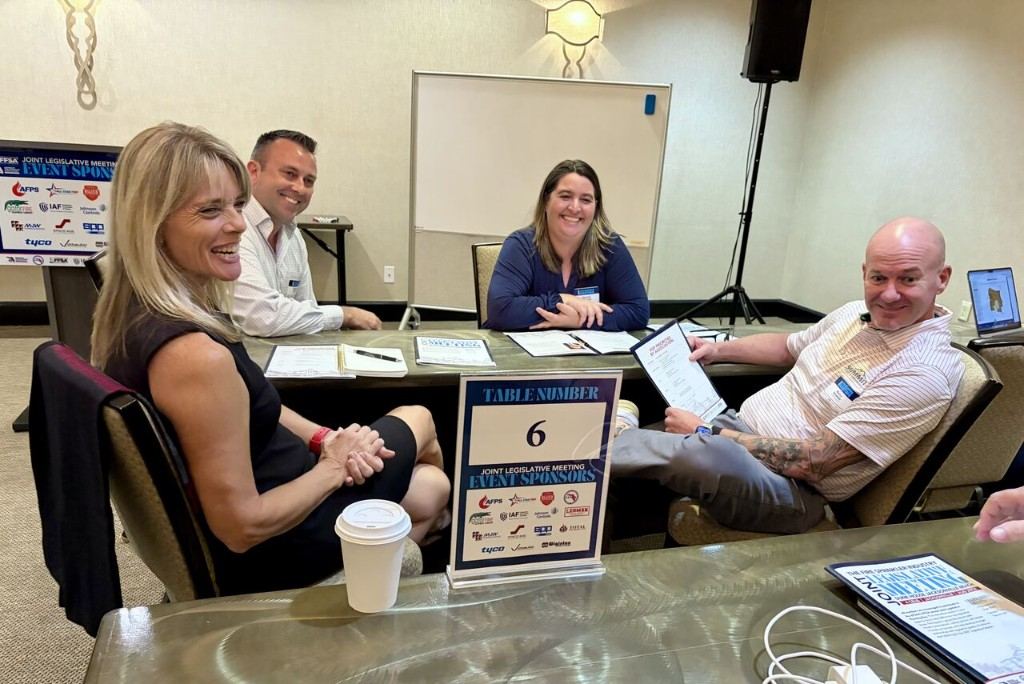
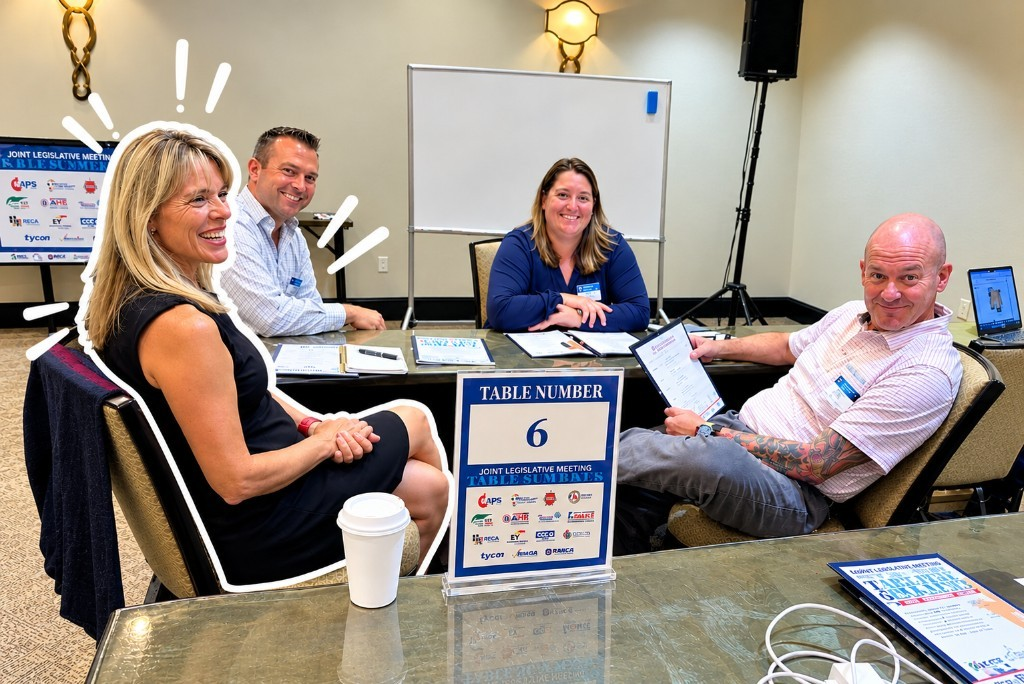
Use the marked meeting photo as the hero.
The homepage now shows the exact image from the latest upload.

diff --git a/index.html b/index.html
@@ -43,7 +43,7 @@
 
   <main>
     <section class="hero">
-      <img class="hero-bg" src="assets/jeannene/legislative.jpg?v=14" alt="Jeannene Meisman at a joint legislative meeting, seated with colleagues around a sponsor table.">
+      <img class="hero-bg" src="assets/jeannene/legislative.jpg?v=15" alt="Jeannene Meisman at a joint legislative meeting, seated with colleagues around a sponsor table.">
       <div class="hero-copy">
         <h1>Take care of people, and the sales follow.</h1>
         <p class="subhead">Jeannene Meisman mentors the person who has to make the sale, on the account they already have.</p>
